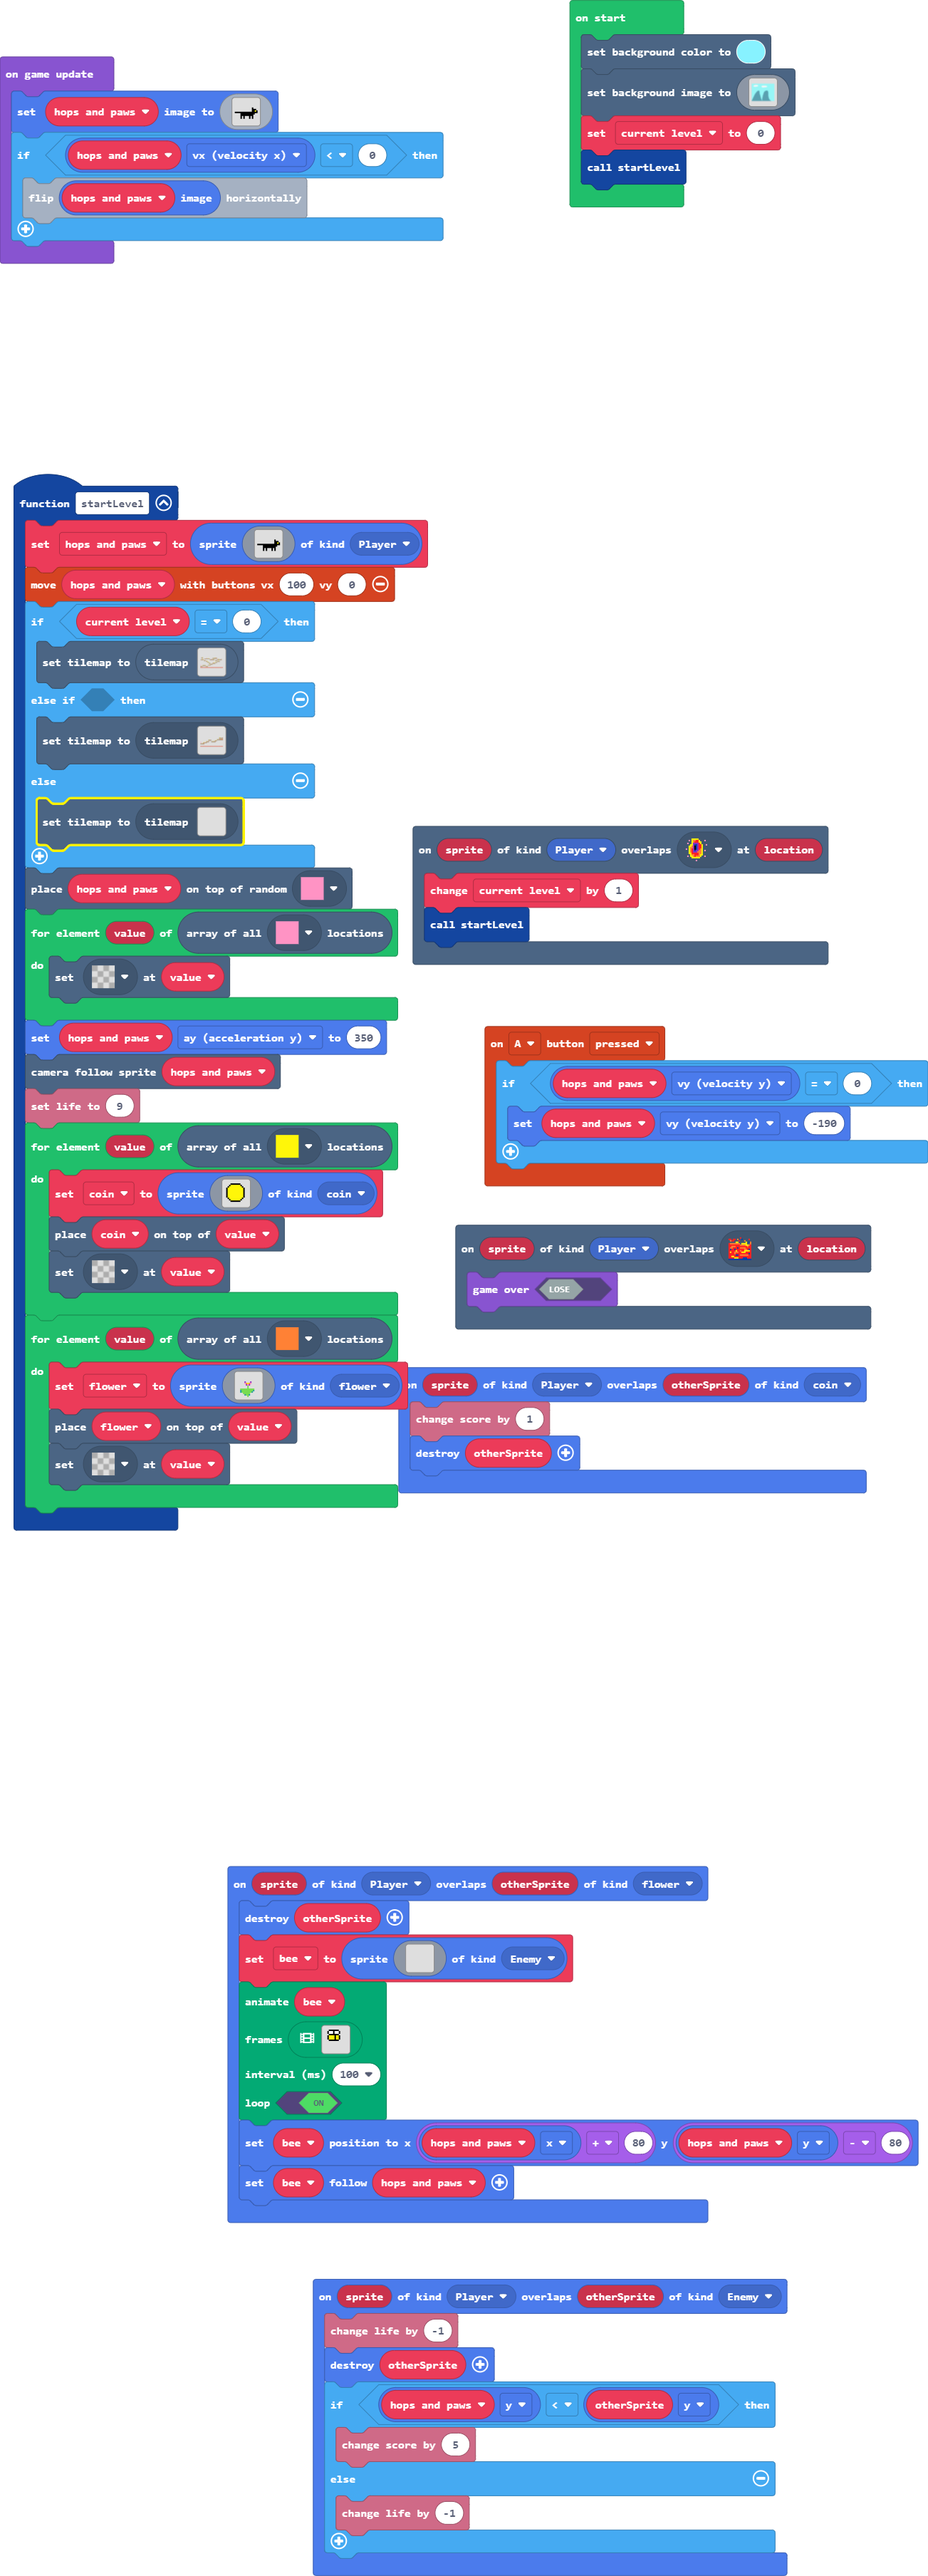
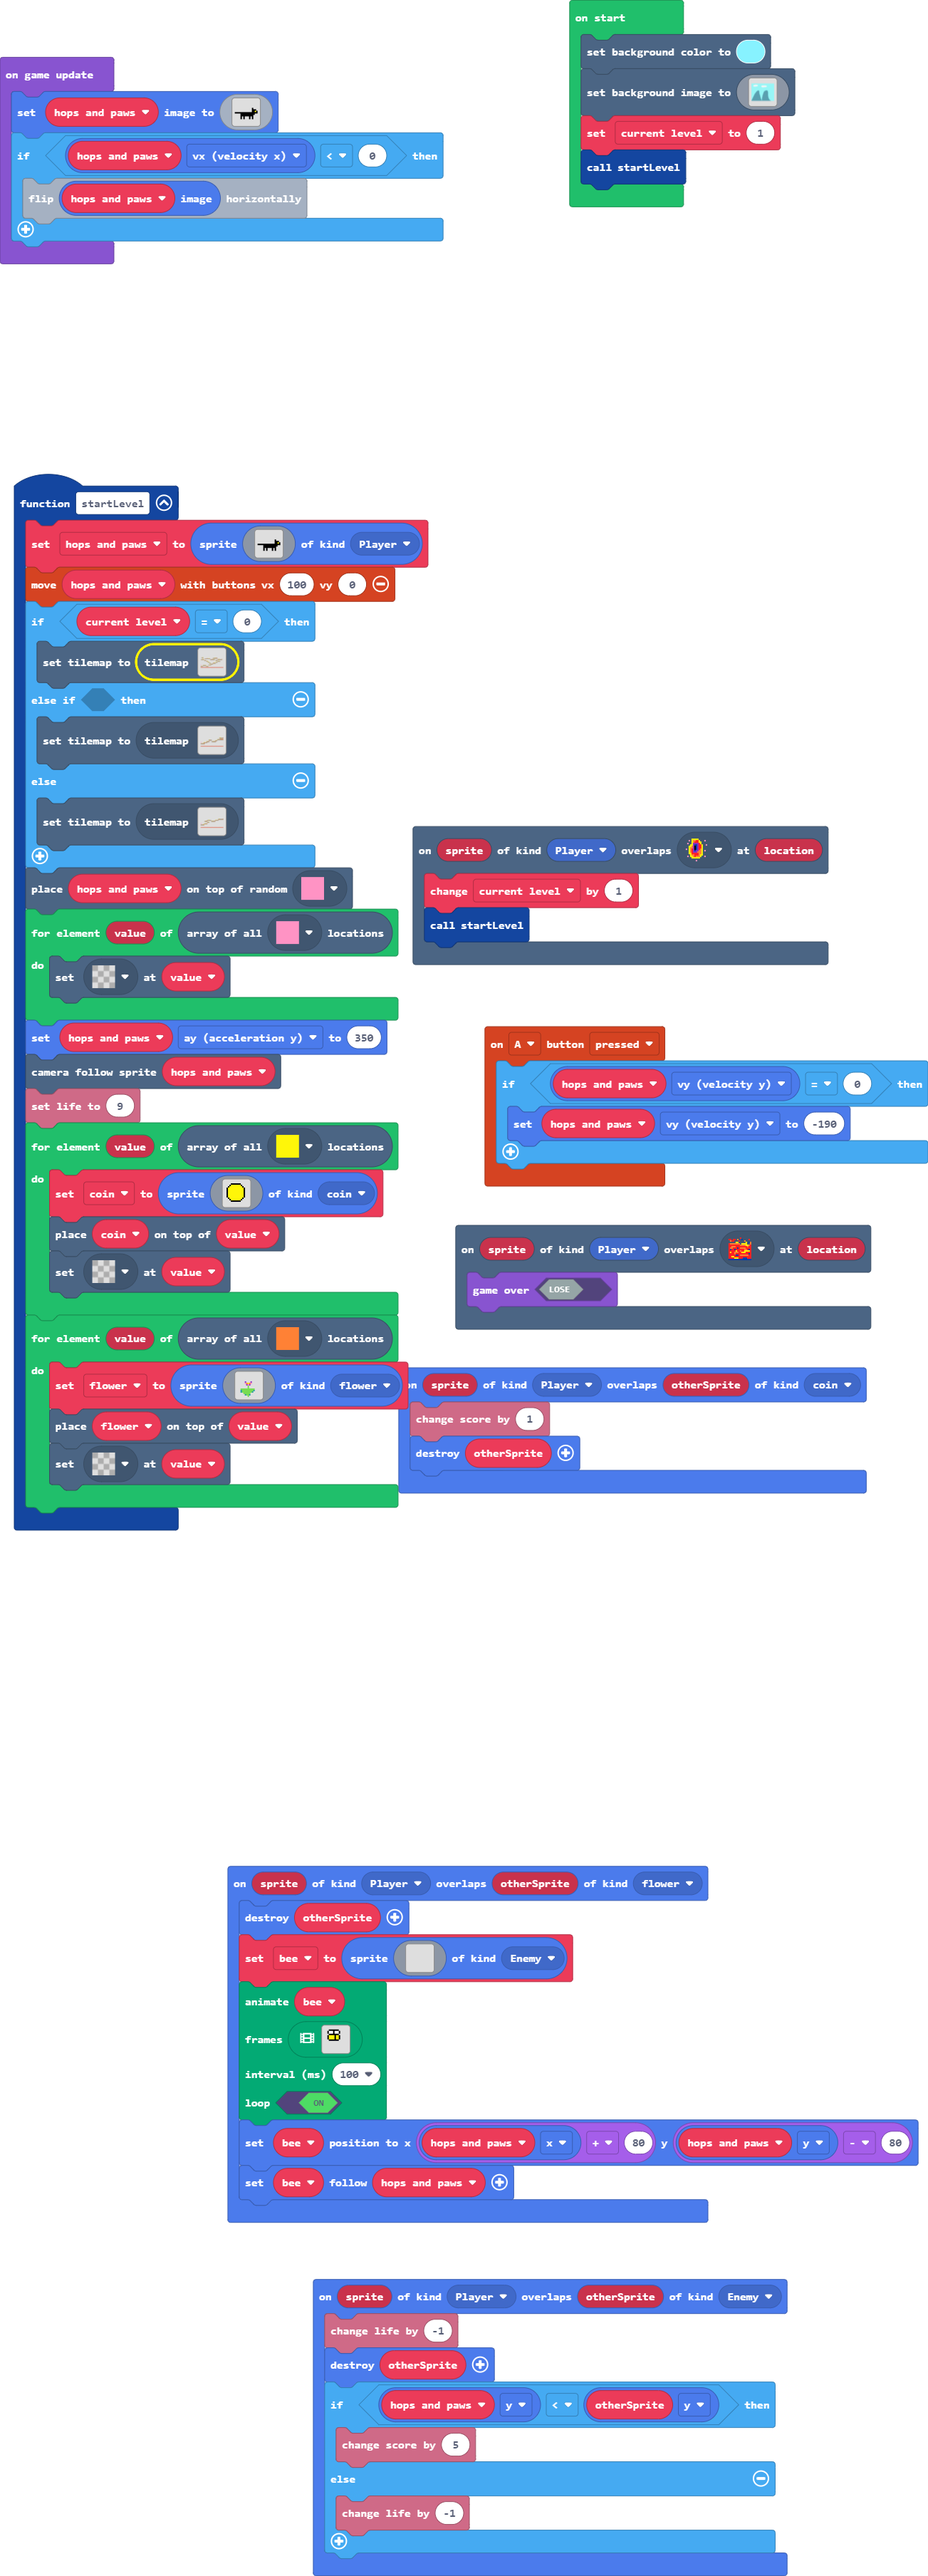
Update main.blocks, main.ts, tilemap.g.jres, tilemap.g.ts

Changed region(s): [[0.0614, 0.0312, 0.3377, 0.0938], [0.0307, 0.3125, 0.0614, 0.3438]]

diff --git a/tilemap.g.ts b/tilemap.g.ts
@@ -104,25 +104,6 @@ namespace myTiles {
 ..................................................
 ..................................................
 `, [myTiles.transparency16,myTiles.tile2,myTiles.tile3,myTiles.tile4,myTiles.tile5,myTiles.tile6,myTiles.tile7], TileScale.Sixteen);
-            case "level6":
-            case "level6":return tiles.createTilemap(hex`1000100000000000000000000000000000000000000000000000000000000000000000000000000000000000000000000000000000000000000000000000000000000000000000000000000000000000000000000000000000000000000000000000000000000000000000000000000000000000000000000000000000000000000000000000000000000000000000000000000000000000000000000000000000000000000000000000000000000000000000000000000000000000000000000000000000000000000000000000000000000000000000000000000000000000000000000000000000000000000000000000000000000000000000000000000000000000`, img`
-. . . . . . . . . . . . . . . . 
-. . . . . . . . . . . . . . . . 
-. . . . . . . . . . . . . . . . 
-. . . . . . . . . . . . . . . . 
-. . . . . . . . . . . . . . . . 
-. . . . . . . . . . . . . . . . 
-. . . . . . . . . . . . . . . . 
-. . . . . . . . . . . . . . . . 
-. . . . . . . . . . . . . . . . 
-. . . . . . . . . . . . . . . . 
-. . . . . . . . . . . . . . . . 
-. . . . . . . . . . . . . . . . 
-. . . . . . . . . . . . . . . . 
-. . . . . . . . . . . . . . . . 
-. . . . . . . . . . . . . . . . 
-. . . . . . . . . . . . . . . . 
-`, [myTiles.transparency16], TileScale.Sixteen);
             case "level5":
[1 lines of base64/hex data omitted]
 .............................................
@@ -145,6 +126,34 @@ namespace myTiles {
 ......2222222................................
 .............................................
 22222222.....................................
+.............................................
+.............................................
+.............................................
+.............................................
+.............................................
+`, [myTiles.transparency16,myTiles.tile2,myTiles.tile3,myTiles.tile4,myTiles.tile5,myTiles.tile6,myTiles.tile7], TileScale.Sixteen);
+            case "level6":
[1 lines of base64/hex data omitted]
+.............................................
+.............................................
+.............................................
+.............................................
+.............................................
+.............................................
+.............................................
+.............................................
+...................................2222222222
+.............................................
+.............22222222........222222..........
+.............................................
+........22222........22222222................
+.............................................
+.............2222............................
+.............................................
+.............................................
+.......222222................................
+.............................................
+2222222......................................
 .............................................
 .............................................
 .............................................

diff --git a/main.ts b/main.ts
@@ -312,7 +312,7 @@ scene.setBackgroundImage(img`
     9666666666666666666666666666666666666666666666666666666666666666666666666666666666666666666666666666666666666666666666666666666666666666699999999999999999999999
     6666666666666666666666666666666666666666666666666666666666666666666666666666666666666666666666666666666666666666666666666666666666666666669999999999999999999999
     `)
-current_level = 0
+current_level = 1
 startLevel()
 game.onUpdate(function () {
     hops_and_paws.setImage(img`
